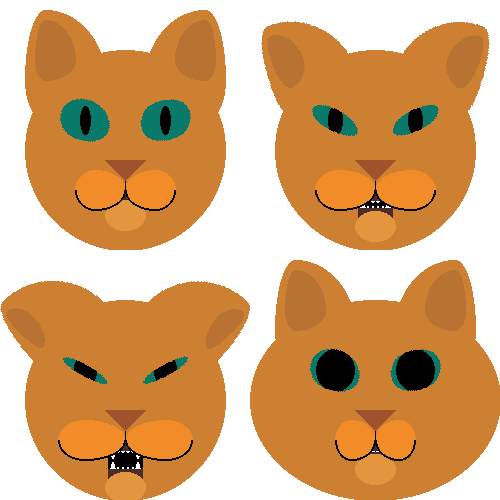
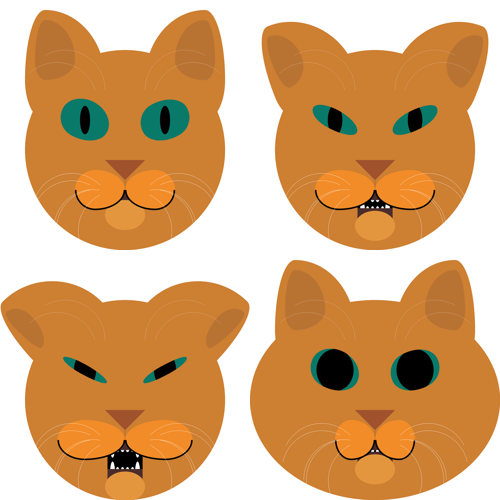
Add whiskers

diff --git a/catlib.py b/catlib.py
@@ -1,3 +1,4 @@
+import math
 from PIL import Image, ImageDraw
 
 # Background
@@ -35,6 +36,11 @@ class Head:
         xy = [self.rescale(ab, im.size) for ab in xy]
         draw_obj = ImageDraw.Draw(im)
         draw_obj.ellipse(xy, **kwargs)
+    def draw_arc(self, im, xy, width, **kwargs):
+        xy = [self.rescale(ab, im.size) for ab in xy]
+        width = self.rescale_1d(width, im.size)
+        draw_obj = ImageDraw.Draw(im)
+        draw_obj.arc(xy=xy, width=width, **kwargs)
     def draw_pieslice(self, im, xy, **kwargs):
         xy = [self.rescale(ab, im.size) for ab in xy]
         draw_obj = ImageDraw.Draw(im)
@@ -411,3 +417,99 @@ class RightEye(Head):
         # Perform the composite
         composite = Image.composite(im, eye, mask)
         return composite
+
+# Left whisker
+# Whiskers are portions of a circle's circumference
+# Are the whiskers move/droop, the circle moves along another
+# hidden circle, while the arc similarly slides (start and end angles)
+# What this all does is create a curve that spins on an origin
+class LeftWhisker(Head):
+    def __init__(self, width=1, height=1,
+                 droopiness=0.5, length=0.75,
+                 fill="white", thickness=2,
+                 whiskers = 5):
+        self.w = width
+        self.h = height
+        self.f = fill
+        self.d = droopiness
+        self.l = length
+        self.t = thickness
+        self.ox = 1000
+        self.oy = 1850
+        self.flip = False
+        self.n = whiskers
+    def draw(self, im):
+        im = im.copy()
+        for w in range(self.n):
+            oy = self.oy + w//2*50
+            d = self.d+w/5
+            if self.flip:
+                ox = self.ox + w%2*100
+                phase = d*math.pi/2
+                s=180+d*90
+                e=300+d*90*self.l
+            else:
+                ox = self.ox - w%2*100
+                phase = (2-d)*math.pi/2
+                s=240-d*90*self.l
+                e=0-d*90
+            self.draw_arc(im,
+                        xy = [
+                            (ox+400*self.w*(math.cos(phase)-1),
+                            oy+400*self.h*(math.sin(phase)-1)),
+                            (ox+400*self.w*(math.cos(phase)+1),
+                            oy+400*self.h*(math.sin(phase)+1))  
+                        ],
+                        start=s,
+                        end=e,
+                        fill=self.f,
+                        width=self.t)
+        return im
+
+class RightWhisker(LeftWhisker):
+    def __init__(self, width=1, height=1,
+                 droopiness=0.5, length=0.75,
+                 fill="white", thickness=2,
+                 whiskers=5):
+        self.w = width
+        self.h = height
+        self.f = fill
+        self.d = droopiness
+        self.l = length
+        self.t = thickness
+        self.ox = 1500
+        self.oy = 1850
+        self.flip = True
+        self.n = whiskers
+
+class LeftEyebrow(LeftWhisker):
+    def __init__(self, width=1, height=1,
+                 droopiness=0.0, length=0.75,
+                 fill="white", thickness=1,
+                 whiskers=2):
+        self.w = width
+        self.h = height
+        self.f = fill
+        self.d = droopiness
+        self.l = length
+        self.t = thickness
+        self.ox = 1050
+        self.oy = 900
+        self.flip = False
+        self.n = whiskers
+
+class RightEyebrow(LeftWhisker):
+    def __init__(self, width=1, height=1,
+                 droopiness=0.0, length=0.75,
+                 fill="white", thickness=1,
+                 whiskers=2):
+        self.w = width
+        self.h = height
+        self.f = fill
+        self.d = droopiness
+        self.l = length
+        self.t = thickness
+        self.ox = 1450
+        self.oy = 900
+        self.flip = True
+        self.n = whiskers

diff --git a/cat.py b/cat.py
@@ -8,7 +8,12 @@ cat0 = [Head(),
        LeftEar(),
        RightEar(),
        LeftEye(),
-       RightEye()]
+       RightEye(),
+       LeftWhisker(),
+       RightWhisker(),
+       LeftEyebrow(),
+       RightEyebrow()
+       ]
 
 
 # Start a new blank canvas
@@ -28,7 +33,11 @@ cat1 = [Head(),
        LeftEar(turn=0.5),
        RightEar(turn=0.5),
        LeftEye(squint=0.75, dilation=0.25),
-       RightEye(squint=0.75, dilation=0.25)]
+       RightEye(squint=0.75, dilation=0.25),
+       LeftWhisker(),
+       RightWhisker(),
+       LeftEyebrow(),
+       RightEyebrow()]
 
 cat2= [Head(),
        Mouth(openness=1.0),
@@ -38,7 +47,11 @@ cat2= [Head(),
        LeftEar(turn=1.0),
        RightEar(turn=1.0),
        LeftEye(squint=1.0, dilation=0.5),
-       RightEye(squint=1.0, dilation=0.5)]
+       RightEye(squint=1.0, dilation=0.5),
+       LeftWhisker(),
+       RightWhisker(),
+       LeftEyebrow(),
+       RightEyebrow()]
 
 cat3= [Head(width=1.25),
        Mouth(openness=0.2),
@@ -48,7 +61,11 @@ cat3= [Head(width=1.25),
        LeftEar(),
        RightEar(),
        LeftEye(squint=0.25, dilation=1.0),
-       RightEye(squint=0.25, dilation=1.0)]
+       RightEye(squint=0.25, dilation=1.0),
+       LeftWhisker(),
+       RightWhisker(),
+       LeftEyebrow(),
+       RightEyebrow()]
 
 images = [
     Image.new("RGB", (2500, 2500), (255, 255, 255)),
